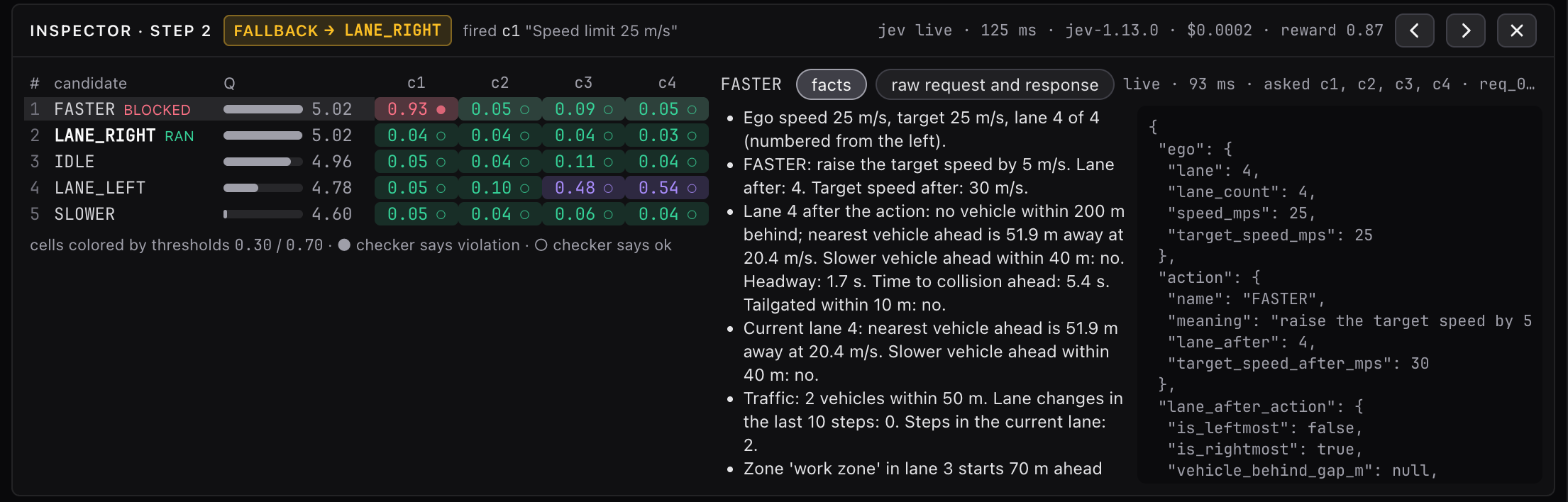
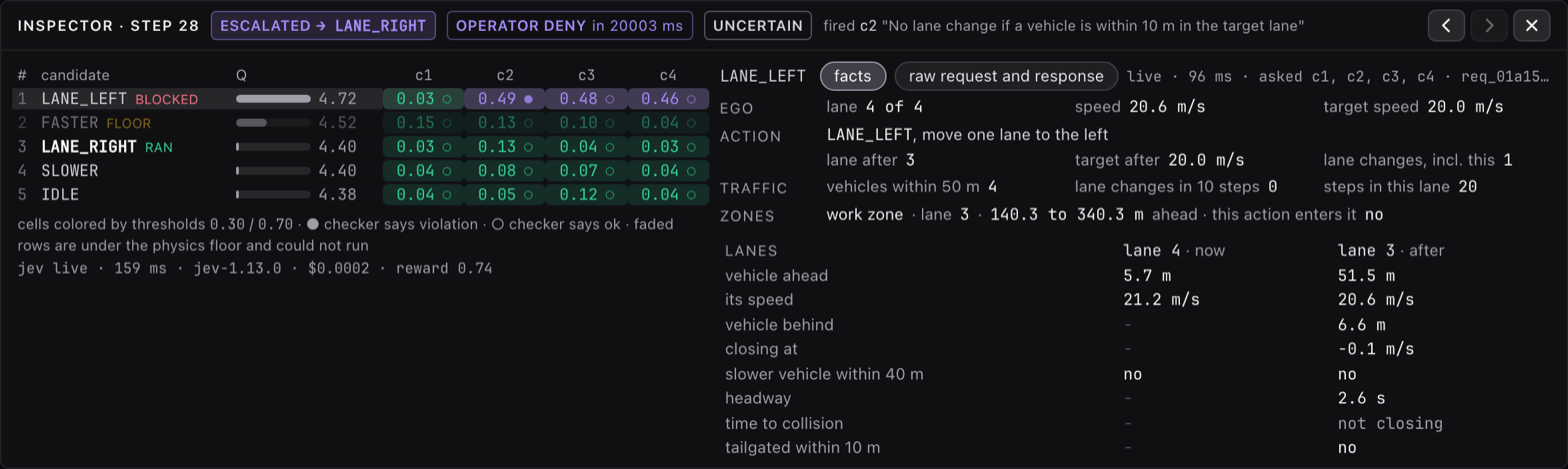
docs(console): retake the inspector screenshot for the facts table
The inspector image still showed the sentence list and the duplicate
JSON pane. It is now a replay of the Oct 20 live run at step 28, where
the policy proposes LANE_LEFT into the work zone's lane with a vehicle
6.6 m behind, Jev puts the gap rule at 0.49 with the checker agreeing,
FASTER sits under the physics floor, and the operator answer times out
to deny. Captured at 2x and scaled to the 1568 px width the other
screenshots use.

The capture showed the lanes table one row too tall for the drawer, so
the "road edge" row becomes a "leftmost" or "rightmost" note in the
lane's column head, where it describes the lane rather than a metric.
The inspector page and the component notes follow.

diff --git a/frontend/src/components/facts-table.tsx b/frontend/src/components/facts-table.tsx
@@ -127,14 +127,14 @@ function laneCell(key: string, block: Block): Cell {
   return cell(key, v);
 }
 
-function edgeCell(block: Block): Cell {
-  const left = block.is_leftmost;
-  const right = block.is_rightmost;
-  if (typeof left !== "boolean" && typeof right !== "boolean") return BLANK;
-  if (left && right) return { text: "only lane", tone: "value" };
-  if (left) return { text: "leftmost", tone: "value" };
-  if (right) return { text: "rightmost", tone: "value" };
-  return { text: "no", tone: "value" };
+/** The road edge a lane sits at, for its column head; null when it is an inner lane or the block does not say. */
+function edgeOf(block: Block): string | null {
+  const left = block.is_leftmost === true;
+  const right = block.is_rightmost === true;
+  if (left && right) return "only lane";
+  if (left) return "leftmost";
+  if (right) return "rightmost";
+  return null;
 }
 
 /** Lane and lane count fold into one "3 of 4" row. */
@@ -178,6 +178,7 @@ function Group({ title, note, children }: { title: ReactNode; note?: ReactNode; 
 interface LaneColumn {
   lane: number | null;
   when: string;
+  edge: string | null;
   block: Block;
 }
 
@@ -204,16 +205,15 @@ export function FactsTable({ facts }: { facts: Record<string, unknown> }) {
   const current = asBlock(facts.current_lane);
   const after = asBlock(facts.lane_after_action);
   const right = asBlock(facts.lane_right_of_lane_after);
-  if (current) columns.push({ lane: laneNow, when: "now", block: current });
-  if (after) columns.push({ lane: laneAfter, when: "after", block: after });
-  if (right) columns.push({ lane: laneAfter === null ? null : laneAfter + 1, when: "to the right", block: right });
+  if (current) columns.push({ lane: laneNow, when: "now", edge: edgeOf(current), block: current });
+  if (after) columns.push({ lane: laneAfter, when: "after", edge: edgeOf(after), block: after });
+  if (right) columns.push({ lane: laneAfter === null ? null : laneAfter + 1, when: "to the right", edge: edgeOf(right), block: right });
   const present = new Set(columns.flatMap((c) => Object.keys(c.block)));
   const laneRow = (k: string): LaneRow => ({ key: k, label: labelOf(k), cell: (b) => laneCell(k, b) });
   const rows: LaneRow[] = [
     ...LANE_ROWS.filter((k) => present.has(k)).map(laneRow),
     ...[...present].filter((k) => !LANE_ROWS.includes(k) && !EDGE_KEYS.includes(k)).map(laneRow),
   ];
-  if (EDGE_KEYS.some((k) => present.has(k))) rows.push({ key: "edge", label: "road edge", cell: edgeCell });
 
   return (
     <div className="flex min-h-0 flex-1 flex-col gap-2 overflow-auto text-xs leading-snug">
@@ -271,6 +271,7 @@ export function FactsTable({ facts }: { facts: Record<string, unknown> }) {
                 <th key={i} className="px-1 font-normal whitespace-nowrap">
                   <span className="num text-zinc-200">lane {c.lane ?? "?"}</span>
                   <span className="text-zinc-400"> · {c.when}</span>
+                  {c.edge && <span className="text-zinc-400"> · {c.edge}</span>}
                 </th>
               ))}
             </tr>

diff --git a/docs/developer-guide/frontend/components.md b/docs/developer-guide/frontend/components.md
@@ -51,7 +51,7 @@ Renders only when `selectInspected` returns a record, in the twin's slot, capped
 
 ## facts-table
 
-`FactsTable({ facts })` renders one candidate's `facts` object, the JSON Jev was sent, and computes nothing. `LABEL` maps known keys to short labels and `UNIT` gives each its unit, with a suffix rule (`_mps`, `_m`, `_s`) for keys neither lists, so a fact the backend adds later shows under its own name instead of vanishing; a count whose name ends in a threshold, like `vehicles_within_50_m`, is listed with no unit so the rule does not misread it. Four labelled groups, each a `Group` with a 4.5 rem title column so they line up and its `Pair`s in three columns (two below 1440 px): `ego` (lane and lane count folded into "3 of 4"), `action` (name and `meaning` on a line of their own, the rest as pairs), `traffic` merged with `history`, `zones` (one full-width line per zone: name, lane, extent in metres and "this action enters it", in the hazard color on yes; or "none ahead"), then one group per unknown top-level block. The lanes table follows: one column each for `current_lane` ("now"), `lane_after_action` ("after") and `lane_right_of_lane_after` ("to the right") when present, rows in `LANE_ROWS` order plus any unknown keys, and a "road edge" row folded from `is_leftmost` and `is_rightmost`. `laneCell()` reads a null gap as "none", a null that merely follows from it as a dash, and a null time to collision with a vehicle ahead as "not closing", matching the backend's prose. A label may wrap inside its cell, a value never does, and every pair and row carries its JSON key as the tooltip.
+`FactsTable({ facts })` renders one candidate's `facts` object, the JSON Jev was sent, and computes nothing. `LABEL` maps known keys to short labels and `UNIT` gives each its unit, with a suffix rule (`_mps`, `_m`, `_s`) for keys neither lists, so a fact the backend adds later shows under its own name instead of vanishing; a count whose name ends in a threshold, like `vehicles_within_50_m`, is listed with no unit so the rule does not misread it. Four labelled groups, each a `Group` with a 4.5 rem title column so they line up and its `Pair`s in three columns (two below 1440 px): `ego` (lane and lane count folded into "3 of 4"), `action` (name and `meaning` on a line of their own, the rest as pairs), `traffic` merged with `history`, `zones` (one full-width line per zone: name, lane, extent in metres and "this action enters it", in the hazard color on yes; or "none ahead"), then one group per unknown top-level block. The lanes table follows: one column each for `current_lane` ("now"), `lane_after_action` ("after") and `lane_right_of_lane_after` ("to the right") when present, rows in `LANE_ROWS` order plus any unknown keys, while `is_leftmost` and `is_rightmost` become a "leftmost" or "rightmost" note in the column head. `laneCell()` reads a null gap as "none", a null that merely follows from it as a dash, and a null time to collision with a vehicle ahead as "not closing", matching the backend's prose. A label may wrap inside its cell, a value never does, and every pair and row carries its JSON key as the tooltip.
 
 ## approval-queue
 

diff --git a/docs/user-guide/console/timeline-and-inspector.md b/docs/user-guide/console/timeline-and-inspector.md
@@ -60,7 +60,7 @@ The right pane shows the selected candidate's facts: the JSON Jev was sent, laid
 
 Four labelled rows lead, each a few label and value pairs. "ego" has the lane as "3 of 4", the speed and the target speed. "action" names the action and what it means, then the lane and target speed after it; a real lane change also carries the count of lane changes in the last 10 steps with this one included, the number the rate rule is judged on. "traffic" has the vehicles within 50 m, the lane changes in the last 10 steps and the steps spent in the current lane. "zones" has, per zone ahead, its name and lane with where it starts and ends in metres, and whether this action enters it, in the hazard color when it does; or "none ahead".
 
-Under them a lanes table has one column per lane the facts describe: the current lane as "now", the lane the action leads to as "after" (the same lane for IDLE, FASTER and SLOWER, measured at the target speed after the action), and "to the right" when the action leads to lane 1, for the passing-lane rule. One row per metric: the vehicle ahead and its speed, the vehicle behind and its closing speed, a slower vehicle within 40 m, headway, time to collision, tailgating within 10 m, and the road edge. A dash means that lane carries no such measurement, "none" means no vehicle within 200 m, and time to collision reads "not closing" when the vehicle ahead is not being gained on. A "yes" is set in bold. Hover any label for the field's name in the JSON. The sentences the operator saw in the approval queue are these same facts in prose and stay in the log record; the JSON itself is on the raw tab as the request's `state`.
+Under them a lanes table has one column per lane the facts describe: the current lane as "now", the lane the action leads to as "after" (the same lane for IDLE, FASTER and SLOWER, measured at the target speed after the action), and "to the right" when the action leads to lane 1, for the passing-lane rule. One row per metric: the vehicle ahead and its speed, the vehicle behind and its closing speed, a slower vehicle within 40 m, headway, time to collision and tailgating within 10 m; a column head adds "leftmost" or "rightmost" when that lane is at the edge of the road. A dash means that lane carries no such measurement, "none" means no vehicle within 200 m, and time to collision reads "not closing" when the vehicle ahead is not being gained on. A "yes" is set in bold. Hover any label for the field's name in the JSON. The sentences the operator saw in the approval queue are these same facts in prose and stay in the log record; the JSON itself is on the raw tab as the request's `state`.
 
 ## The raw tab
 
